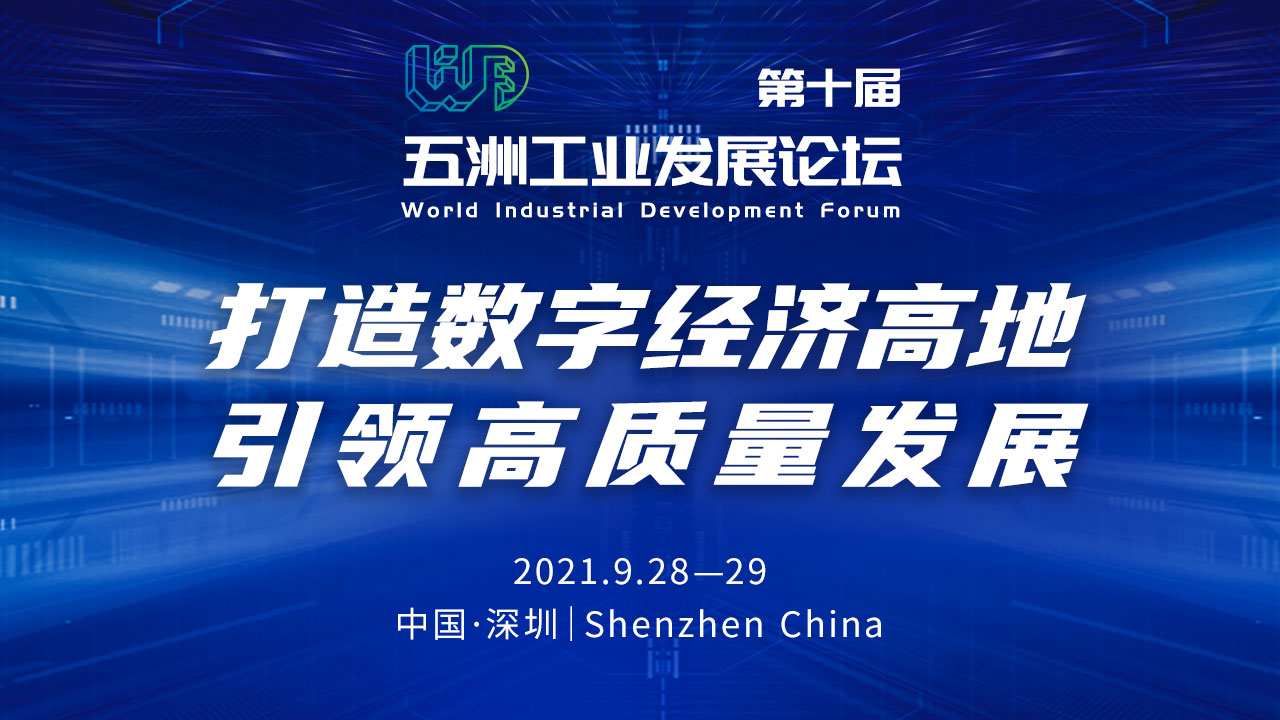
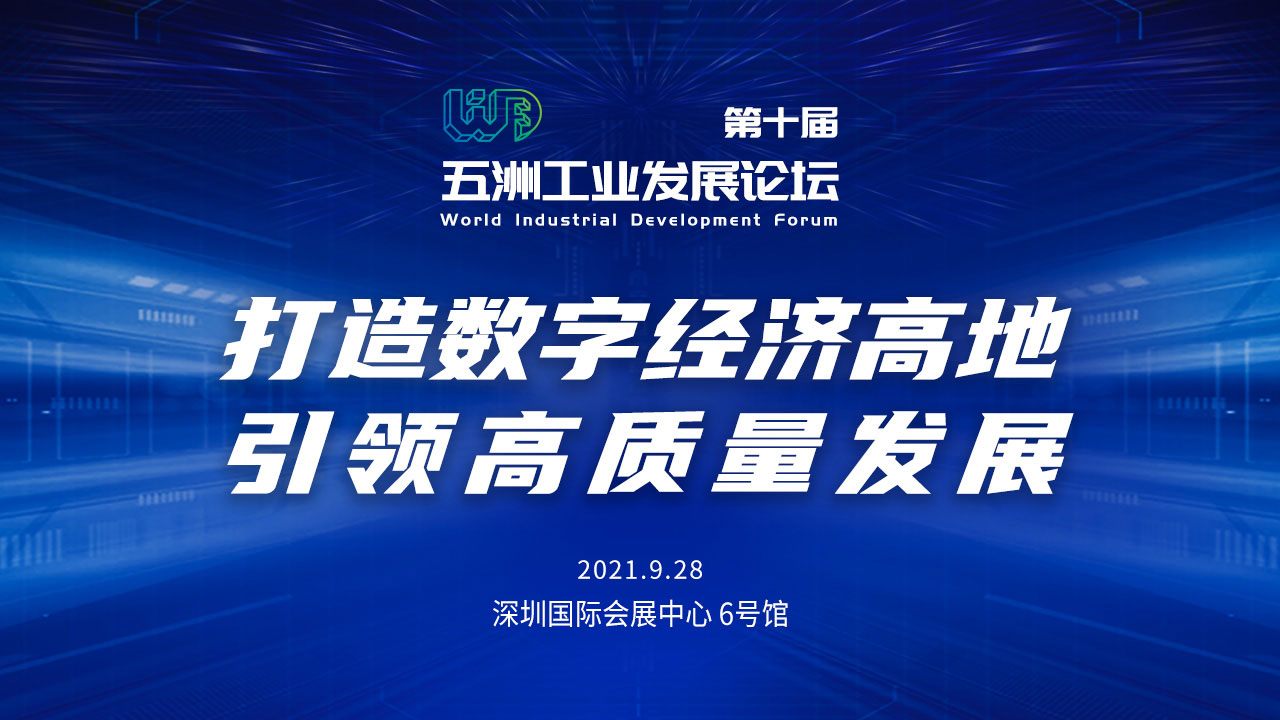
更新banner2

diff --git a/fszi-list.html b/fszi-list.html
@@ -1,0 +1,195 @@
+<!doctype html>
+<html>
+<head>
+	<meta http-equiv="Content-Type" content="text/html; charset=utf-8" />
+	<title>深圳工业总会</title>
+    <meta name="description" content="深圳工业总会于2001年注册成立，是以服务于工业界为主的工商领域经济类社会团体。">
+	<meta name="keywords" content="深圳工业总会，深圳知名品牌，深圳工业大奖，" />
+    <meta content="IE=edge,chrome=1" http-equiv="X-UA-Compatible">
+    <meta name="viewport" content="width=device-width,initial-scale=1,user-scalable=0">
+	<!--[if lt IE 9]>   
+	<script src="[!--news.url--]skin/mobile/js/IE9.js"></script>   
+	<![endif]-->
+
+	<link rel="stylesheet" href="[!--news.url--]skin/mobile/css/weui.css"/>
+    <link rel="stylesheet" href="[!--news.url--]skin/mobile/css/weuix.css"/>
+
+	<link href="[!--news.url--]skin/mobile/css/style.css" type="text/css" rel="stylesheet" media="all">
+
+    <script src="[!--news.url--]skin/mobile/js/zepto.min.js"></script>
+	<script src="[!--news.url--]skin/mobile/js/sidebar.js"></script>
+
+    <script>
+        $(function(){
+       $(".weui-c-like .icon").click(function(){
+           if($(this).hasClass('on')) {
+               $(this).removeClass('on')
+           }else{
+               $(this).addClass('on') 
+           }
+       })
+
+        });
+
+    </script>
+
+	<!--百度统计Start-->
+	<script>
+		var _hmt = _hmt || [];
+		(function() {
+		  var hm = document.createElement("script");
+		  hm.src = "http://hm.baidu.com/hm.js?13632d3f98e0680c55e94a3fa871aef5";
+		  var s = document.getElementsByTagName("script")[0]; 
+		  s.parentNode.insertBefore(hm, s);
+		})();
+	</script>
+	<!--百度统计Over-->
+
+<script>
+var curl = encodeURIComponent(window.location.href.split('#')[0]);
+ $.ajax({
+     type: "GET",
+     url : "http://www.fszi.org/jssdk.php?url=" + curl,//替换网址，xxx根据自己jssdk文件位置修改
+     dataType:'jsonp',
+     success : function(data){
+        console.log(data)
+          wx.config({
+            debug:false,
+            appId: data.appId,
+            timestamp: data.timestamp,
+            nonceStr: data.nonceStr,
+            signature: data.signature,
+            jsApiList: ['checkJsApi','updateAppMessageShareData','updateTimelineShareData']
+        });
+},
+    error:function(data){
+        console.log(JSON.stringify(data))
+    }
+});
+ 
+wx.ready(function () {
+var option_config ={
+        title: '深圳工业总会官网',
+        desc: '推动工业化进程',
+        link: 'http://www.fszi.org/mobile/',
+        imgUrl: '[!--news.url--]skin/mobile/img/wx-thumb.png',
+        success: function () {},
+        cancel: function () {}
+    };
+    wx.updateTimelineShareData(option_config);
+    wx.updateAppMessageShareData(option_config);
+});
+ 
+</script>
+
+</head>
+
+<body ontouchstart class="list_page">
+
+	<!-- <div class="page-hd">
+		<h1 class="page-hd-title">
+			工总动态
+		</h1>
+		<div class="weui-c-nickname"><a href="index.html">深圳工业总会</a></div>
+	</div> -->
+
+	<div class="weui-header bg-blue"> 
+		<div class="weui-header-left"> <a class="icon icon-109 f-white" href="[!--news.url--]">返回</a>  </div>
+		<h1 class="weui-header-title">工总动态</h1>
+		<div class="weui-header-right">
+			<div class="i-medium" navbar-toggle>        
+				<svg t="1629194796120" class="i" viewBox="0 0 1024 1024" version="1.1" xmlns="http://www.w3.org/2000/svg" p-id="3209" ><path d="M196.266667 277.333333h635.733333c17.066667 0 34.133333-12.8 34.133333-34.133333s-17.066667-29.866667-38.4-29.866667H196.266667c-21.333333 0-34.133333 17.066667-34.133334 34.133334s12.8 29.866667 34.133334 29.866666zM827.733333 477.866667H196.266667c-17.066667 0-34.133333 12.8-34.133334 34.133333s12.8 34.133333 34.133334 34.133333h635.733333c17.066667 0 34.133333-12.8 34.133333-34.133333s-17.066667-34.133333-38.4-34.133333zM827.733333 746.666667H196.266667c-17.066667 0-34.133333 12.8-34.133334 34.133333s12.8 29.866667 34.133334 29.866667h635.733333c17.066667 0 34.133333-12.8 34.133333-34.133334s-17.066667-29.866667-38.4-29.866666z" fill="#ffffff" p-id="3210"></path></svg>
+			</div>
+		</div> 
+	</div>
+
+
+	<div class="weui-navs" navbar>
+		<ul>
+			<a href="article.html"><li class="nav-item">工总简介</li></a>
+			<a href="article.html"><li class="nav-item">工总荣誉</li></a>
+			<a href="article.html"><li class="nav-item">工总动态</li></a>
+			<a href="article.html"><li class="nav-item">通知公告</li></a>
+			<a href="public-service.html"><li class="nav-item">公共服务</li></a>
+			<a href="member-service.html"><li class="nav-item">会员服务</li></a>
+			<a href="article.html"><li class="nav-item">会员风采</li></a>
+			<a href="article.html"><li class="nav-item">入会申请</li></a>
+
+		</ul>
+	</div>
+	
+	<script >
+		$(function(){
+			$('.nav-item>a').on('click', function () {
+				$(".weui-navs ul ul li").removeClass('active');
+				$('.nav-item').children('ul').hide();
+				if ($(this).next().css('display') == "none") {
+					//展开
+					$('.nav-item').children('ul').hide();
+					$(this).next('ul').show();
+					$(this).parent('li').addClass('nav-show').siblings('li').removeClass('nav-show');
+				} else {
+					//收缩
+					$(this).next('ul').hide();
+					$('.nav-item.nav-show').removeClass('nav-show');
+				}
+			});
+		})
+	
+		var sidebarjs = new SidebarJS('navbar');
+	</script>
+
+	<div class="weui-news">
+		<ul class="weui-news-list">
+			[e:loop={"select * from www_sfie_org_cn.phome_ecms_news where classid=102 order by id desc limit 8",8,24,1}]
+						
+			<li class="weui-news-item">
+				<div class="weui-news-inner">
+					<a class="weui-media-box weui-media-box_appmsg" href="<?=$bqsr[titleurl]?>">
+					<div class="weui-news-inners">
+						<div class="weui-news-text">
+							<div class="weui-news-title"><?=$bqr[title]?></div>
+						</div>
+						<div class="weui-news-info">
+							<div class="weui-news-infoitem">
+								<span class="weui-news-left">深圳工业总会</span>
+							</div>
+							<div class="weui-news-infoitem"><?=date('y-m-d',$bqr[newstime])?></div>
+						</div>
+					</div>
+					<div class="weui-news-media">
+						<img src="<?=$bqr[titlepic]?>">
+					</div>
+					</a>
+				</div>
+			</li>
+			[/e:loop]
+		</ul>
+	</div>
+
+	<div class='pager2'>
+		<!-- <a class="pager2-pre">&lt;</a>
+		<a class="active">1</a>
+		<a >2</a>
+		<a >3</a>
+		<a >4</a>
+		<a >5</a>
+		<a class="pager2-next">&gt;</a> -->
+		[!--show.listpage--]
+		</div>
+	
+
+	<div class="weui-footer">
+		<!-- <p class="weui-footer__links">
+			<a href="index.html" class="weui-footer__link">首页</a>
+		</p> -->
+		<p class="weui-footer__text">Copyright &copy; 深圳工业总会</p>
+		<p class="weui-footer__text">备案号：粤ICP备11065159号-5号</p>
+		<p class="weui-footer__text">电话：0755-83688772 &nbsp; &nbsp; 传真：0755-83688744</p>
+
+	</div>
+
+</body>
+
+
+</html>

diff --git a/fszi-article.html b/fszi-article.html
@@ -1,0 +1,158 @@
+<!doctype html>
+<html>
+<head>
+	<meta http-equiv="Content-Type" content="text/html; charset=utf-8" />
+	<title>深圳工业总会</title>
+    <meta name="description" content="深圳工业总会于2001年注册成立，是以服务于工业界为主的工商领域经济类社会团体。">
+	<meta name="keywords" content="深圳工业总会，深圳知名品牌，深圳工业大奖，" />
+    <meta content="IE=edge,chrome=1" http-equiv="X-UA-Compatible">
+    <meta name="viewport" content="width=device-width,initial-scale=1,user-scalable=0">
+	<!--[if lt IE 9]>   
+	<script src="[!--news.url--]skin/mobile/js/IE9.js"></script>   
+	<![endif]-->
+
+	<link rel="stylesheet" href="[!--news.url--]skin/mobile/css/weui.css"/>
+    <link rel="stylesheet" href="[!--news.url--]skin/mobile/css/weuix.css"/>
+
+	<link href="[!--news.url--]skin/mobile/css/style.css" type="text/css" rel="stylesheet" media="all">
+
+    <script src="[!--news.url--]skin/mobile/js/zepto.min.js"></script>
+    <script>
+        $(function(){
+       $(".weui-c-like .icon").click(function(){
+           if($(this).hasClass('on')) {
+               $(this).removeClass('on')
+           }else{
+               $(this).addClass('on') 
+           }
+       })
+
+        });
+
+    </script>
+
+	<!--百度统计Start-->
+	<script>
+		var _hmt = _hmt || [];
+		(function() {
+		  var hm = document.createElement("script");
+		  hm.src = "http://hm.baidu.com/hm.js?13632d3f98e0680c55e94a3fa871aef5";
+		  var s = document.getElementsByTagName("script")[0]; 
+		  s.parentNode.insertBefore(hm, s);
+		})();
+	</script>
+	<!--百度统计Over-->
+
+<script>
+var curl = encodeURIComponent(window.location.href.split('#')[0]);
+ $.ajax({
+     type: "GET",
+     url : "http://www.fszi.org/jssdk.php?url=" + curl,//替换网址，xxx根据自己jssdk文件位置修改
+     dataType:'jsonp',
+     success : function(data){
+        console.log(data)
+          wx.config({
+            debug:false,
+            appId: data.appId,
+            timestamp: data.timestamp,
+            nonceStr: data.nonceStr,
+            signature: data.signature,
+            jsApiList: ['checkJsApi','updateAppMessageShareData','updateTimelineShareData']
+        });
+},
+    error:function(data){
+        console.log(JSON.stringify(data))
+    }
+});
+ 
+wx.ready(function () {
+var option_config ={
+        title: '深圳工业总会官网',
+        desc: '推动工业化进程',
+        link: 'http://www.fszi.org/mobile/',
+        imgUrl: '[!--news.url--]skin/mobile/img/wx-thumb.png',
+        success: function () {},
+        cancel: function () {}
+    };
+    wx.updateTimelineShareData(option_config);
+    wx.updateAppMessageShareData(option_config);
+});
+ 
+</script>
+
+</head>
+
+<body ontouchstart class="article">
+
+	<div class="weui-content">
+		<div class="weui-c-inner">
+	 		<div class="weui-c-content">
+		  		<h2 class="weui-c-title">[!--pagetitle--]</h2>
+				<div class="weui-c-meta">
+					<span class="weui-c-nickname"><a href="[!--news.url--]">深圳工业总会</a></span>
+					<em class="weui-c-nickname">[!--newstime--]</em>
+				</div>
+
+				<div class="weui-c-article">
+					[!--newstext--]
+				</div>
+			</div>
+
+			<div class="weui-c-tools">
+				<!-- <a href="javascript:;">阅读原文</a> -->
+				<div class="weui-c-readnum">阅读<span id="readnum">10万+</span></div>
+				<div class="weui-c-like">
+				   <i class="icon"></i>
+				   <span id="likenum">1001</span>
+				</div>
+			</div>
+		</div>
+	</div>
+
+	<div class="news">
+		<div class="news_con">
+			<h4>喜欢此内容的人还喜欢</h4>
+			<div class="weui-news">
+				<ul class="weui-news-list">
+					[e:loop={"select * from www_sfie_org_cn.phome_ecms_news where classid=102 order by id desc limit 3",3,24,1}]
+						
+						<li class="weui-news-item">
+							<div class="weui-news-inner">
+								<a class="weui-media-box weui-media-box_appmsg" href="<?=$bqsr[titleurl]?>">
+								<div class="weui-news-inners">
+									<div class="weui-news-text">
+										<div class="weui-news-title"><?=$bqr[title]?></div>
+									</div>
+									<div class="weui-news-info">
+										<div class="weui-news-infoitem">
+											<span class="weui-news-left">深圳工业总会</span>
+										</div>
+										<div class="weui-news-infoitem"><?=date('y-m-d',$bqr[newstime])?></div>
+									</div>
+								</div>
+								<div class="weui-news-media">
+									<img src="<?=$bqr[titlepic]?>">
+								</div>
+								</a>
+							</div>
+						</li>
+						[/e:loop]
+				</ul>
+			</div>
+		</div>
+	</div>
+
+	<div class="weui-footer">
+		<!-- <p class="weui-footer__links">
+			<a href="index.html" class="weui-footer__link">首页</a>
+		</p> -->
+		<p class="weui-footer__text">Copyright &copy; 深圳工业总会</p>
+		<p class="weui-footer__text">备案号：粤ICP备11065159号-5号</p>
+		<p class="weui-footer__text">电话：0755-83688772 &nbsp; &nbsp; 传真：0755-83688744</p>
+
+	</div>
+
+</body>
+
+
+</html>
